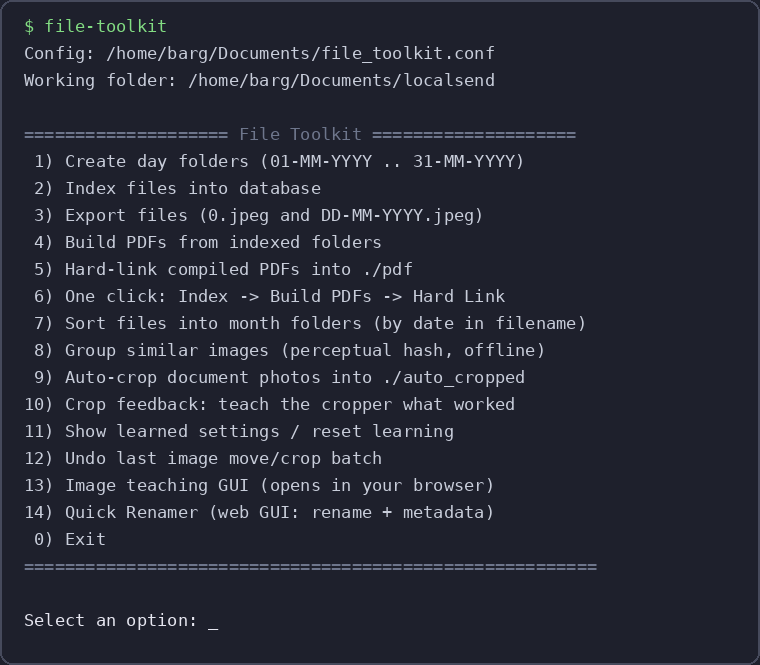
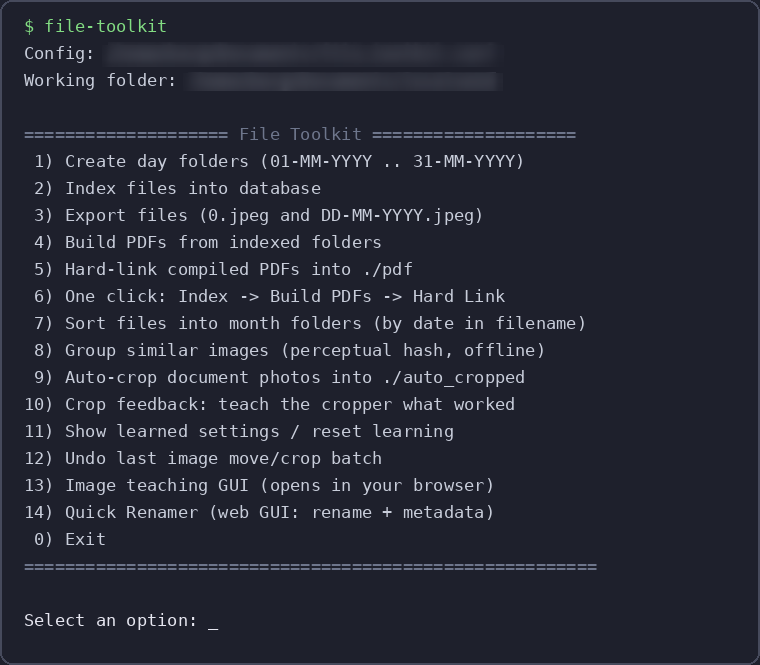
Enhance cropping functionality with preview and improved aspect ratio handling

Changed region(s): [[0.1513, 0.0602, 0.6355, 0.1504], [0.6053, 0.1203, 0.6355, 0.1504], [0.5447, 0.1203, 0.575, 0.1504]]

diff --git a/image_gui.py b/image_gui.py
@@ -50,6 +50,18 @@ def _safe_path(raw):
     return path
 
 
+def _safe_image_path(raw):
+    """Allow image reads from the input folder and the crop output folder."""
+    try:
+        path = Path(unquote(raw)).resolve()
+        roots = (Path(ftk.TARGET_DIR).resolve(),
+                 Path(ftk.CROPPED_OUTPUT_DIR).resolve())
+    except (OSError, ValueError):
+        return None
+    return path if any(path == root or root in path.parents
+                       for root in roots) else None
+
+
 def _thumbnail(path, max_px=340):
     """JPEG thumbnail bytes, cached by (path, mtime, size)."""
     path = str(path)
@@ -152,7 +164,7 @@ class Handler(BaseHTTPRequestHandler):
         elif route == "/img":
             raw = (query.get("path") or [""])[0]
             max_px = min(1600, int((query.get("max") or ["340"])[0]))
-            path = _safe_path(raw)
+            path = _safe_image_path(raw)
             if path is None or not path.is_file():
                 self._json(403, {"error": "مسار غير مسموح"})
                 return
@@ -401,6 +413,12 @@ section { display:none; } section.active { display:block; }
 .canvas-wrap { position:relative; background:#0b0d11; border:1px solid var(--border);
   border-radius:14px; overflow:hidden; min-height:420px; display:grid; place-items:center; }
 #teach-img { max-width:100%; max-height:66vh; display:block; user-select:none; -webkit-user-drag:none; }
+#crop-preview { width:100%; max-height:55vh; object-fit:contain; display:block; background:#0b0d11; }
+.compare-grid { display:grid; grid-template-columns:repeat(2,minmax(0,1fr)); gap:10px; }
+.compare-pane { min-width:0; background:var(--surface2); border-radius:10px; padding:8px; }
+.compare-pane img { width:100%; height:220px; object-fit:contain; background:#0b0d11; border-radius:7px; }
+.compare-label { font-weight:800; font-size:12px; margin:0 0 6px; }
+@media(max-width:560px){ .compare-grid { grid-template-columns:1fr; } }
 #crop-box { position:absolute; border:2px solid var(--warn); box-shadow:0 0 0 9999px rgba(5,7,10,.55);
   cursor:move; }
 #crop-box.taught { border-color:var(--ok); }
@@ -481,6 +499,18 @@ footer { text-align:center; color:var(--muted); font-size:12px; padding:20px; }
             <div class="h" data-h="bl"></div><div class="h" data-h="br"></div>
           </div>
         </div>
+        <div class="card" style="margin-top:12px;">
+          <div class="row" style="margin-bottom:8px;">
+            <span style="font-weight:800;">مراجعة القص قبل الحفظ</span>
+            <span class="muted">حدّد الورقة كاملة مع هامش مناسب</span>
+          </div>
+          <div class="compare-grid">
+            <div class="compare-pane"><div class="compare-label">قبل القص — الصورة الأصلية</div>
+              <img id="teach-before" alt="الصورة قبل القص"></div>
+            <div class="compare-pane"><div class="compare-label">بعد القص — المعاينة</div>
+              <canvas id="crop-preview" aria-label="معاينة الصورة بعد القص"></canvas></div>
+          </div>
+        </div>
         <div class="card" style="margin-top:14px;">
           <div class="row">
             <span id="t-name" style="font-weight:800;"></span>
@@ -500,7 +530,7 @@ footer { text-align:center; color:var(--muted); font-size:12px; padding:20px; }
         </div>
         <div class="card">
           <button class="btn primary" style="width:100%" onclick="teachSave(false)">
-            💾 حفظ المثال والتالي (Enter)</button>
+            ✓ اعتماد القص وحفظ المثال والتالي (Enter)</button>
           <button class="btn ok" style="width:100%; margin-top:8px;" onclick="teachSave(true)">
             ✂ حفظ + قصّ النسخة الآن</button>
           <div class="row" style="margin-top:8px;">
@@ -508,7 +538,7 @@ footer { text-align:center; color:var(--muted); font-size:12px; padding:20px; }
             <button class="btn" style="flex:1" onclick="teachNav(-1)">السابق →</button>
           </div>
           <div class="muted" style="margin-top:10px; font-size:12.5px; line-height:1.8;">
-            اسحب على الصورة لرسم مربع القص، أو اسحب من داخله لتحريكه، ومن الزوايا لتغيير حجمه.
+            راجع معاينة «بعد القص» قبل الاعتماد. اسحب لرسم إطار القص، واسحب داخله لتحريكه أو من الزوايا لتغيير حجمه.
           </div>
         </div>
       </div>
@@ -533,8 +563,8 @@ footer { text-align:center; color:var(--muted); font-size:12px; padding:20px; }
         <button class="btn" onclick="loadPending()">تحديث</button>
       </div>
       <div class="muted" style="margin-top:8px;">
-        المعالجة الذاتية تقصّ كل الصور بما تعلمه البرنامج، وكل نسخة تظهر هنا بانتظار قرارك —
-        الاعتماد يبقيها، والرفض يحذفها. الأصول لا تُلمس أبداً.
+        تظهر كل صورة أصلية بجانب نسختها بعد القص. راجع حدود الورقة في النتيجة ثم اعتمدها؛
+        الرفض يحذف النسخة المقصوصة. الأصول لا تُلمس أبداً.
       </div>
     </div>
     <div id="pending-list" class="pending-grid"></div>
@@ -559,8 +589,9 @@ footer { text-align:center; color:var(--muted); font-size:12px; padding:20px; }
         <tbody></tbody>
       </table>
       <div class="muted" style="margin-top:8px;">
-        كلما علّمت البرنامج صورة من تبويب التعليم، تُطبَّق نفس نِسَب القصّ تلقائياً على كل
-        الصور القادمة بنفس الأبعاد (صور من نفس المصدر عادة).
+        تُحفظ حدود القص كنِسَب من أبعاد الصورة، لذلك يمكن الاستفادة من المثال مع صور
+        بأحجام مختلفة. يختار البرنامج أمثلة قريبة في نسبة العرض إلى الارتفاع، ويتجاهل
+        الأمثلة المحددة كجودة منخفضة؛ وإذا لم يجد مثالاً مناسباً يستخدم الكشف التلقائي.
       </div>
     </div>
   </section>
@@ -637,6 +668,7 @@ async function loadTeach(refresh) {
   IDX = Math.min(IDX, IMAGES.length - 1);
   const img = IMAGES[IDX];
   $('teach-img').src = '/img?max=900&path=' + encodeURIComponent(img.path);
+  $('teach-before').src = '/img?max=600&path=' + encodeURIComponent(img.path);
   $('t-name').textContent = img.name;
   $('t-progress').textContent = `صورة ${IDX + 1} من ${IMAGES.length}`;
   $('t-bar').style.width = ((IDX + 1) / IMAGES.length * 100) + '%';
@@ -661,6 +693,7 @@ function imgScale() {
 }
 function drawBox() {
   const box = $('crop-box'), img = $('teach-img');
+  drawCropPreview();
   if (!BOX || img.hidden) return;
   box.hidden = false;
   box.classList.toggle('taught', METHOD === 'taught');
@@ -672,6 +705,18 @@ function drawBox() {
   box.style.top = (offY + BOX[1]*s) + 'px';
   box.style.width = ((BOX[2]-BOX[0])*s) + 'px';
   box.style.height = ((BOX[3]-BOX[1])*s) + 'px';
+}
+function drawCropPreview() {
+  const canvas = $('crop-preview'), img = $('teach-img');
+  if (!canvas || !img || !img.complete || !img.naturalWidth || !BOX) return;
+  const sx = Math.max(0, Math.floor(BOX[0] / IMGW * img.naturalWidth));
+  const sy = Math.max(0, Math.floor(BOX[1] / IMGH * img.naturalHeight));
+  const ex = Math.min(img.naturalWidth, Math.ceil(BOX[2] / IMGW * img.naturalWidth));
+  const ey = Math.min(img.naturalHeight, Math.ceil(BOX[3] / IMGH * img.naturalHeight));
+  if (ex <= sx || ey <= sy) return;
+  canvas.width = ex - sx; canvas.height = ey - sy;
+  canvas.getContext('2d').drawImage(img, sx, sy, ex-sx, ey-sy,
+                                    0, 0, canvas.width, canvas.height);
 }
 function clampBox() {
   BOX[0] = Math.max(0, Math.min(IMGW-2, BOX[0]));
@@ -757,10 +802,15 @@ async function loadPending() {
     const card = document.createElement('div');
     card.className = 'pending-card';
     card.innerHTML = `
-      <img src="/img?max=340&path=${encodeURIComponent(op.source_full)}">
+      <div class="compare-grid" style="padding:8px;">
+        <div class="compare-pane"><div class="compare-label">قبل القص</div>
+          <img src="/img?max=700&path=${encodeURIComponent(op.source_full)}" alt="قبل القص"></div>
+        <div class="compare-pane"><div class="compare-label">بعد القص</div>
+          <img src="/img?max=700&path=${encodeURIComponent(op.destination)}" alt="بعد القص"></div>
+      </div>
       <div class="body">
         <div class="name">${op.source}</div>
-        <div class="meta">${method} • ${type}</div>
+        <div class="meta">${method} • ${type} • قارن النتيجتين ثم اعتمد أو ارفض</div>
         <div class="actions">
           <button class="btn ok">✓ اعتماد</button>
           <button class="btn bad">✗ رفض</button>

diff --git a/image_tools.py b/image_tools.py
@@ -10,6 +10,7 @@ Imported lazily by file_toolkit.py, so it reaches back into it for the
 shared config, prompts and helpers.
 """
 
+import math
 import os
 import re
 import shutil
@@ -634,17 +635,39 @@ def learned_crop(conn, img):
     auto-detection. Returns (box or None, method, predicted_type) where
     method is 'taught' or 'auto'.
 
-    Teaching works per image size: screenshots and scans usually share
-    exact dimensions per source, so the average normalized box of every
-    taught example at this size is the crop."""
+    Taught boxes are normalized, so examples can be reused across different
+    resolutions. Prefer examples with a similar aspect ratio and use a
+    median box so one imprecise example cannot shift the crop for every image.
+    Low-quality examples are excluded. When no relevant example exists,
+    fall back to per-image detection."""
     width, height = img.size
-    row = conn.execute(
-        "SELECT type, AVG(box_l), AVG(box_t), AVG(box_r), AVG(box_b) "
-        "FROM crop_examples WHERE img_w = ? AND img_h = ? "
-        "GROUP BY type ORDER BY COUNT(*) DESC LIMIT 1",
-        (width, height)).fetchone()
-    if row is not None:
-        type_, nl, nt, nr, nb = row
+    aspect = width / height
+    examples = conn.execute(
+        "SELECT type, img_w, img_h, box_l, box_t, box_r, box_b "
+        "FROM crop_examples WHERE low_quality = 0").fetchall()
+    ranked = []
+    for row in examples:
+        type_, ex_w, ex_h, *coords = row
+        ex_aspect = ex_w / ex_h
+        distance = abs(math.log(aspect / ex_aspect))
+        # Reuse examples across resolutions and modest framing differences,
+        # but avoid applying a portrait crop to a landscape photo (or vice versa).
+        if distance <= 0.20:
+            ranked.append((distance, type_, coords))
+    if ranked:
+        ranked.sort(key=lambda item: item[0])
+        nearest = ranked[:5]
+        type_distances = defaultdict(list)
+        for distance, type_, _ in nearest:
+            type_distances[type_].append(distance)
+        type_ = min(type_distances, key=lambda kind: (
+            -len(type_distances[kind]),
+            sum(type_distances[kind]) / len(type_distances[kind]), kind))
+        selected = [coords for _, item_type, coords in nearest
+                    if item_type == type_]
+        normalized = [float(np.median([coords[i] for coords in selected]))
+                      for i in range(4)]
+        nl, nt, nr, nb = normalized
         left = max(0, min(width - 1, round(nl * width)))
         top = max(0, min(height - 1, round(nt * height)))
         right = max(left + 1, min(width, round(nr * width)))

diff --git a/README.md b/README.md
@@ -45,12 +45,18 @@ uv run file_toolkit.py
 ![واجهة التعليم](docs/screenshots/docs-teach.png)
 
 - اسحب مربع القص الصحيح على الصورة، واختر نوعها (ورقة الدخل / فاتورة / إيصال).
+- راجع معاينة «قبل القص / بعد القص» ثم اعتمد المثال؛ ويمكن تعديل الإطار حتى
+  تظهر الورقة كاملة مع هامش مناسب.
 - من تبويب **وضع العمل** شغّل المعالجة الذاتية: يقصّ البرنامج كل الصور بما تعلمه
-  ويعرض النتائج **بانتظار اعتمادك** — تعتمد فتبقى، أو ترفض فتُحذف:
+  ويعرض الأصل والنسخة المقصوصة جنباً إلى جنب **بانتظار اعتمادك** — تعتمد فتبقى،
+  أو ترفض فتُحذف:
 
 ![وضع العمل والاعتماد](docs/screenshots/docs-work.png)
 
-كل صورة قادمة بنفس أبعاد صورة علّمتها تُقصّ تلقائياً بنفس الطريقة.
+تُخزَّن الأمثلة كنِسَب من أبعادها، لذلك تعمل مع صور بأحجام ودقات مختلفة. ويختار
+البرنامج أمثلة قريبة في نسبة العرض إلى الارتفاع، ويستخدم وسيط حدود القص لتقليل أثر
+المثال غير الدقيق. الأمثلة الموسومة بجودة منخفضة لا تدخل في التعلّم. إذا لم يجد
+مثالاً مناسباً، ينتقل إلى الكشف التلقائي عن حدود المحتوى.
 
 ### 5⃣ إعادة التسمية بالمعاينة الحية (الخيار 14)
 
